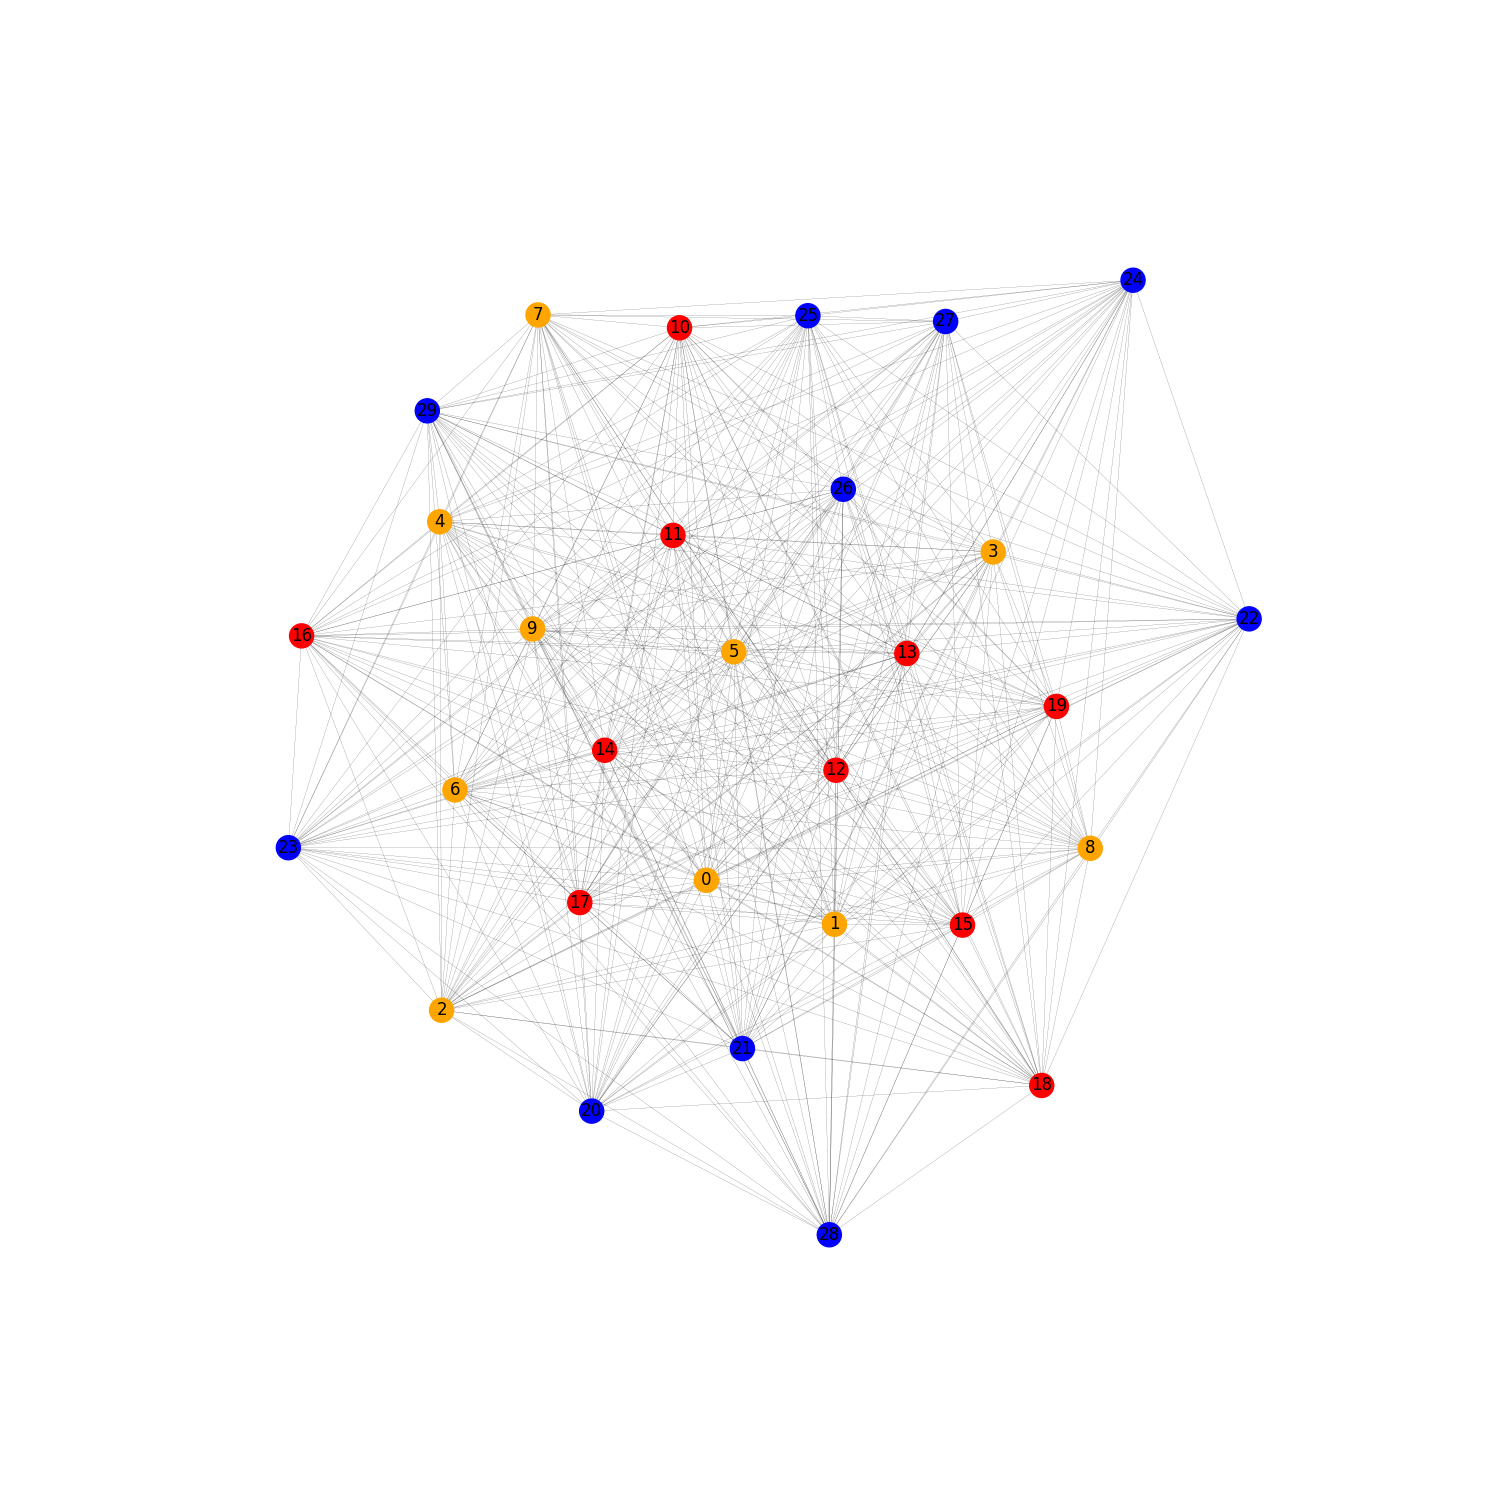
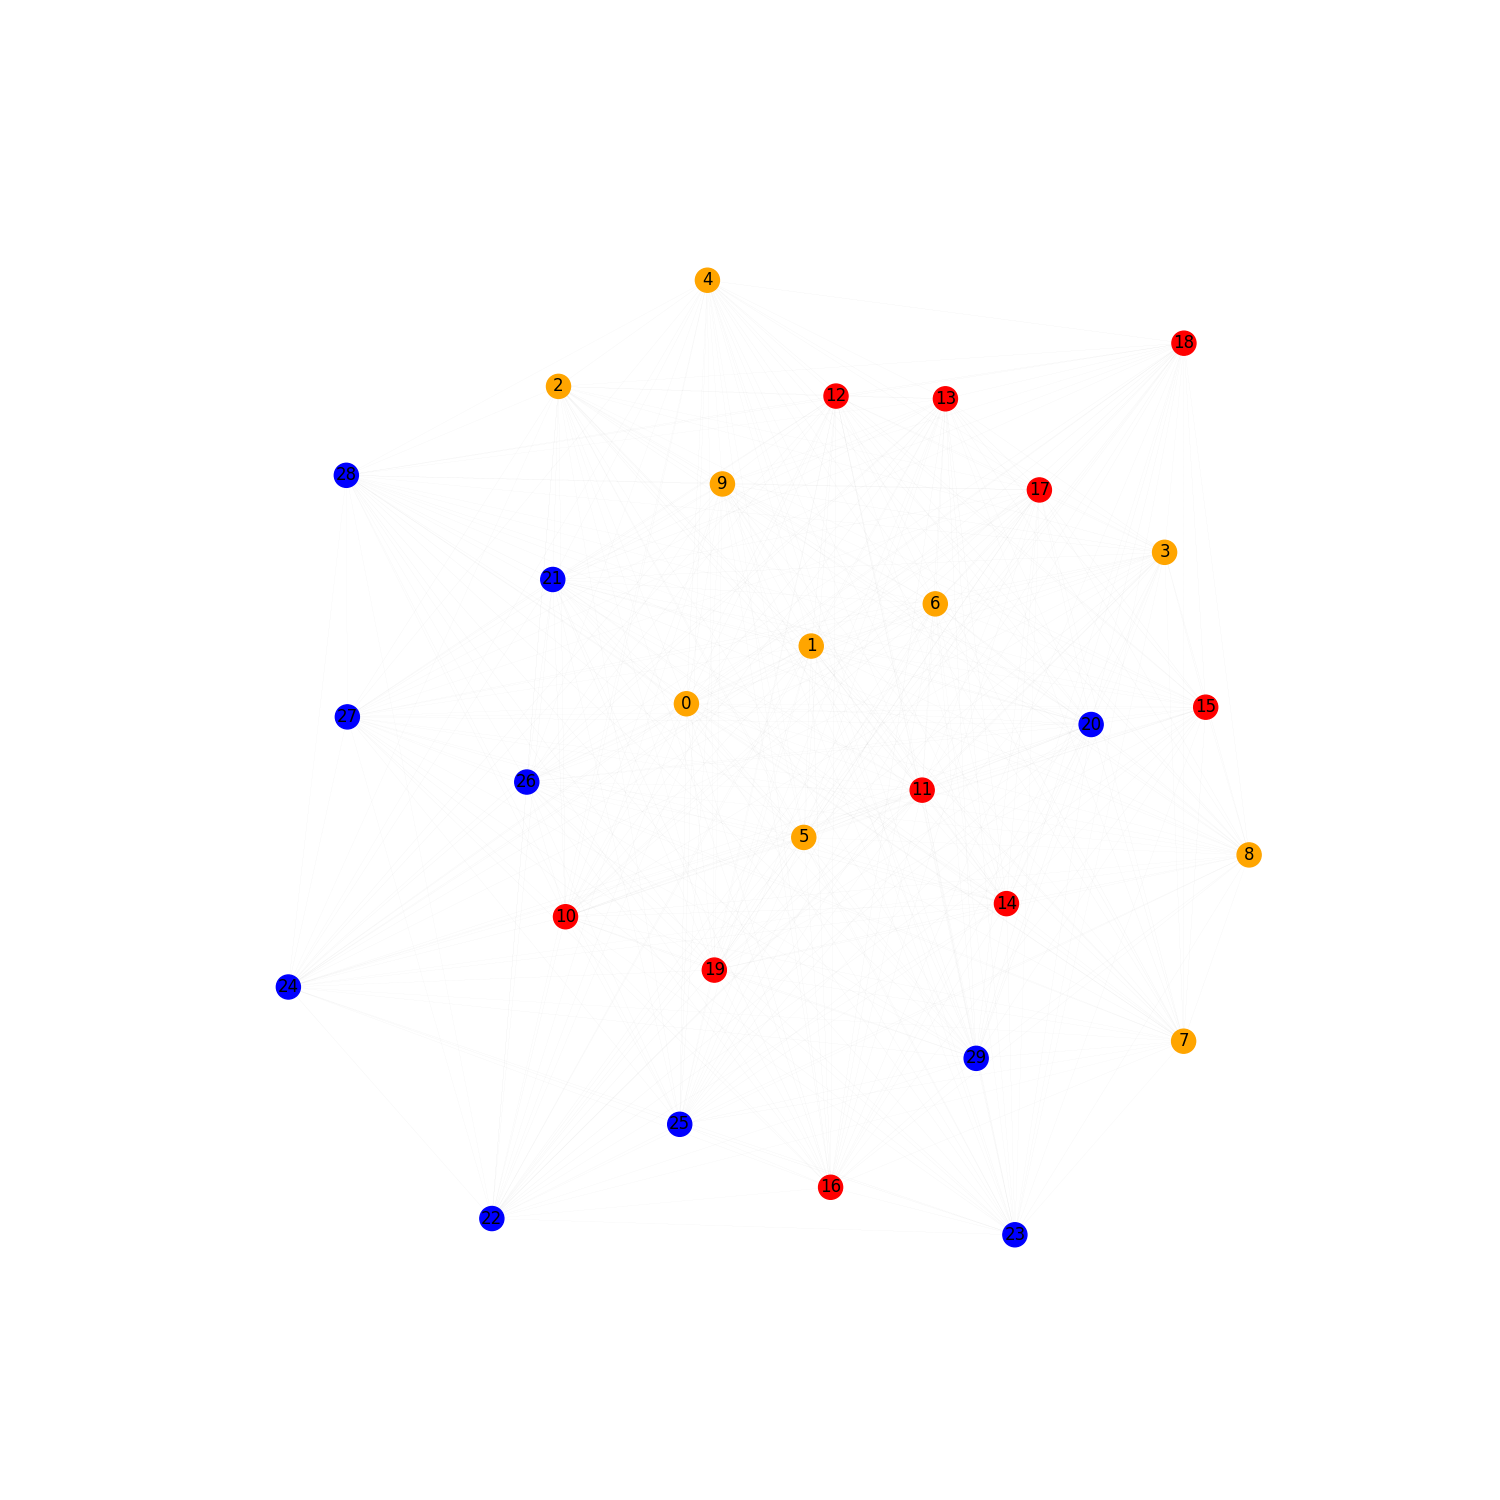
kernel

diff --git a/visualization/calcTED.py b/visualization/calcTED.py
@@ -1,4 +1,4 @@
-from zss import simple_distance, Node
+from zss import simple_distance,distance
 import os
 import re
 import itertools
@@ -6,9 +6,56 @@ import networkx as nx
 import numpy as np
 import string
 import matplotlib.pyplot as plt
+import copy
 leaf_nodes=["Tf","Idf","Tfidf","First","Last","NumberF","NumberS","NumberT","Length","Rare","Title", "Noun","Adv","Verb","Adj"]
 nonleaf_nodes=["Plus","Minus","Times","Div","Log","Inv","TimTen","DivTen"]
 twochild_nodes=["Plus","Minus","Times","Div"]
+
+class DepthWeightedNode(object):
+
+    def __init__(self, label):
+        self.my_label = label
+        self.my_children = list()
+        self.parent=None
+        self.depth=1
+
+    @staticmethod
+    def get_children(node):
+        return node.my_children
+
+    @staticmethod
+    def get_label(node):
+        return node.my_label
+
+    @staticmethod
+    def add_depth(node):
+        if node.parent != None:
+            node.depth=node.parent.depth+1
+        for c in node.my_children:
+            DepthWeightedNode.add_depth(c)
+    def addkid(self, node):
+        self.my_children.append(node)
+        node.parent=self
+        DepthWeightedNode.add_depth(node)
+        return self
+    
+    def setparent(self,node):
+        self.parent=node
+        self.depth=node.depth+1
+        return self
+    @staticmethod
+    def get_depth(node):
+        return node.depth
+
+def update_func(node1, node2):
+    if DepthWeightedNode.get_label(node1) == DepthWeightedNode.get_label(node2):
+        return 0
+    return 1#/DepthWeightedNode.get_depth(node1)
+def remove_func(node1):
+    return 1#/DepthWeightedNode.get_depth(node1)
+def insert_func(node1):
+    return 1#/DepthWeightedNode.get_depth(node1)
+
 class TED():
     def __init__(self, folder_name):
         # read tree from file
@@ -29,13 +76,15 @@ class TED():
         for node in nodes_list:
             assert(node in leaf_nodes or node in nonleaf_nodes)
             if node in leaf_nodes:
-                n = Node(node,[])
+                n = DepthWeightedNode(node)
                 if len(stk) > 0 :
                     par=stk.pop()
                     assert(len(leaf_stks)>0)
                     if par in twochild_nodes and len(leaf_stks[-1])>0: #n is right child
                         lc=leaf_stks[-1].pop()
-                        p = Node(par,[lc,n])
+                        p = DepthWeightedNode(par)
+                        p.addkid(lc)
+                        p.addkid(n)
                         assert(len(leaf_stks[-1])==0)
                         leaf_stks.pop()
                         leaf_stks[-1].append(p)
@@ -43,7 +92,8 @@ class TED():
                         stk.append(par)
                         leaf_stks[-1].append(n)
                     else: # n is single child
-                        p = Node(par,[n])
+                        p = DepthWeightedNode(par)
+                        p.addkid(n)
                         assert(len(leaf_stks[-1])==0)
                         leaf_stks.pop()
                         leaf_stks[-1].append(p)
@@ -58,12 +108,15 @@ class TED():
                 if par in twochild_nodes and len(leaf_stks[-1])==2:
                     rc=leaf_stks[-1].pop()
                     lc=leaf_stks[-1].pop()
-                    p = Node(par,[lc,rc])
+                    p = DepthWeightedNode(par)
+                    p.addkid(lc)
+                    p.addkid(rc)
                     assert(len(leaf_stks[-1])==0)
                     leaf_stks.pop()
                     leaf_stks[-1].append(p)
                 elif par not in twochild_nodes and par in nonleaf_nodes and len(leaf_stks[-1])==1:
-                    p = Node(par,[leaf_stks[-1].pop()])
+                    p = DepthWeightedNode(par)
+                    p.addkid(leaf_stks[-1].pop())
                     assert(len(leaf_stks[-1])==0)
                     leaf_stks.pop()
                     leaf_stks[-1].append(p)
@@ -85,22 +138,25 @@ class TED():
         for i in range(len(self.trees)):
             matrix.append([])
             for j in range(len(self.trees)):
-                matrix[i].append(simple_distance(self.trees[i],self.trees[j]))
+                A=self.trees[i]
+                B=self.trees[j]
+                dist=distance(A,B,DepthWeightedNode.get_children,insert_func,remove_func, update_func)
+                matrix[i].append(dist)
         return matrix
     def visualize_matrix(self):
         plt.figure(figsize=(15,15))
         matrix=self.calc_matrix()
+        print(matrix)
         rematrix=[]
         for i in range(len(matrix)):
             rematrix.append([])
             for j in range(len(matrix)):
                 rematrix[i].append(100/matrix[i][j] if matrix[i][j]!=0 else 0)
         A = np.array(rematrix)
-        print(A)
         G = nx.from_numpy_matrix(A)
         pos = nx.spring_layout(G)#エッジの重さが大きいほど近くなる
         node_color = ["orange" for i in range(10)] + ["red" for i in range(10)] + ["blue" for i in range(10)]
-        nx.draw_networkx(G,pos=pos,node_color=node_color,width=0.1)
+        nx.draw_networkx(G,pos=pos,node_color=node_color,width=0.01)
         plt.axis("off")
         plt.savefig("out.png")
 

diff --git a/visualization/tree.py b/visualization/tree.py
@@ -5,7 +5,9 @@ A set of Classes to handle trees and compute kernel functions on them
 
 import random
 import bisect
-
+from functools import cmp_to_key
+def cmp(a, b):
+    return (a > b) - (a < b) 
 class TreeNode:
     #A simple class for handling tree nodes 
     def __init__(self,val=None,chs=[]):
@@ -439,8 +441,8 @@ class ProdSubtreeList():
         return self.prodorderedlist[i][1]
 
     def sort(self):
-        self.prodorderedlist.sort(cmp = lambda x, y: cmp(x[0], y[0]))
-        self.prodorderedlist.sort(cmp = lambda x, y: cmp(len(x[0]), len(y[0])))
+        self.prodorderedlist.sort(key=cmp_to_key(lambda x, y: cmp(x[0], y[0])))
+        self.prodorderedlist.sort(key=cmp_to_key(lambda x, y: cmp(len(x[0]), len(y[0]))))
 
     def __len__(self):
         return len(self.prodorderedlist)

diff --git a/visualization/calcKernel.py b/visualization/calcKernel.py
@@ -80,13 +80,13 @@ class cKernel():
     def calc_average_dist(self,l,r):
         #最初の10個はlifehacker
         distances=[]
-        trkn=tk.KernelST(10.0) ## l=??
+        trkn=tk.KernelSST(0.4) ## l=??
         for t1,t2 in list(itertools.combinations(self.trees[l:r], 2)):
             trkn.kernel(t1,t2)
         return sum(distances)/len(distances) if len(distances)>0 else 0
     def calc_matrix(self):
         matrix=[]
-        trkn=tk.KernelPdak(1.0,1.0,1.0)
+        trkn=tk.KernelSST(0.4) ## lambda=0.4 was good in paper
         for i in range(len(self.trees)):
             matrix.append([])
             for j in range(len(self.trees)):

diff --git a/dataset/makejsonformat.py b/dataset/makejsonformat.py
@@ -47,7 +47,7 @@ class MakeJsonformat:
             dic={}
             dic["title"]=""
             dic["abstract"]=self.train_sentences[i]
-            dic["keywords"]=";".join(self.train_keywords[i])
+            dic["keywords"]=self.train_keywords[i]
             f.write(json.dumps(dic)+"\n")
         f.close()
         ## valid
